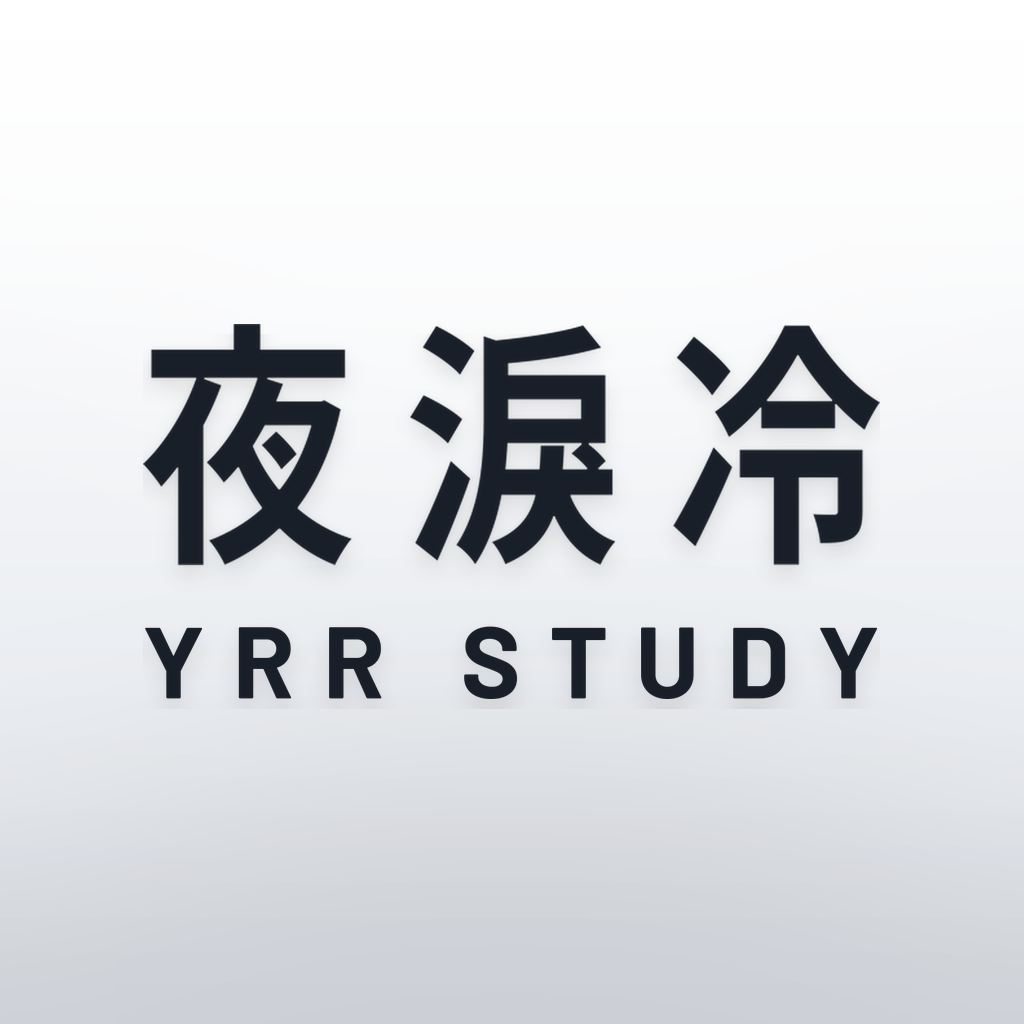
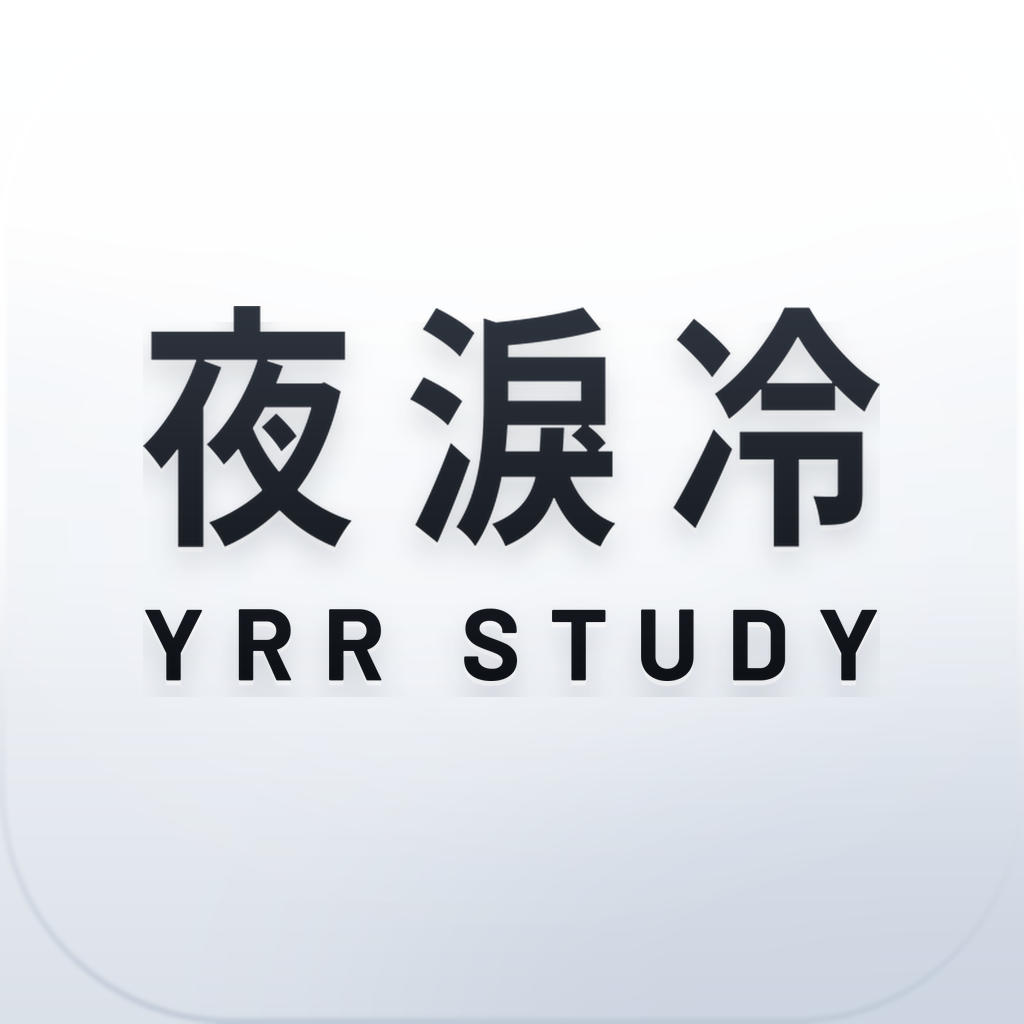
앱 아이콘 확정 : 유리 두께감, 음각 로고
Claude-Session: https://claude.ai/code/session_015uaKLahaYjwSoCrRpGm8MR

diff --git a/index.html b/index.html
@@ -20,9 +20,9 @@
   window.__inapp = true;
 })();
 </script>
-<link rel="manifest" href="manifest.webmanifest?v=2">
-<link rel="apple-touch-icon" href="icons/apple-touch-icon.png?v=2">
-<link rel="icon" type="image/png" href="icons/favicon.png?v=2">
+<link rel="manifest" href="manifest.webmanifest?v=3">
+<link rel="apple-touch-icon" href="icons/apple-touch-icon.png?v=3">
+<link rel="icon" type="image/png" href="icons/favicon.png?v=3">
 <link rel="preconnect" href="https://cdn.jsdelivr.net">
 <link rel="stylesheet" href="https://cdn.jsdelivr.net/gh/orioncactus/pretendard@v1.3.9/dist/web/variable/pretendardvariable-dynamic-subset.min.css">
 <link rel="stylesheet" href="css/app.css">
